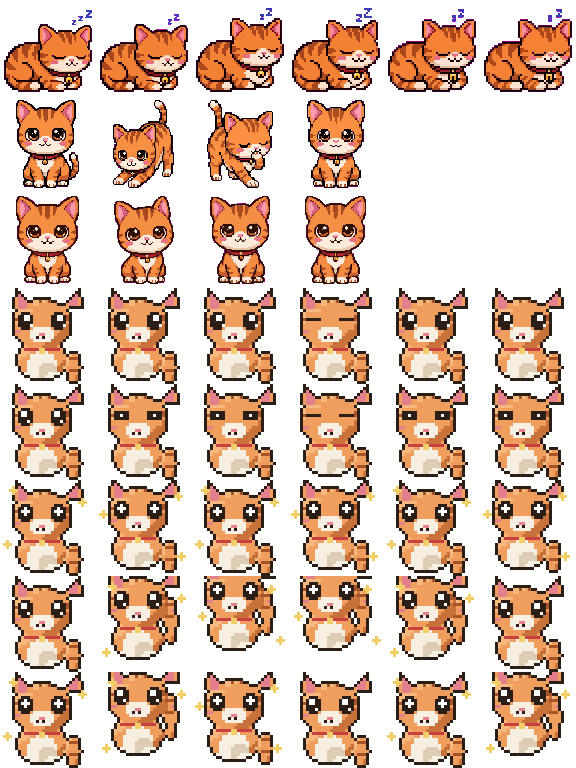
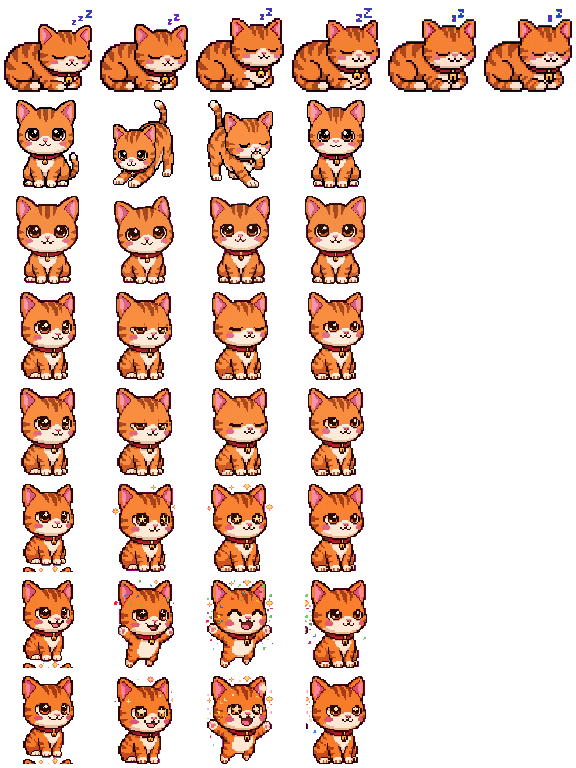
assets: 전체 8행 AI 에셋 완성 — evening/night 동일 소스(fps 차등)

diff --git a/src/renderer/cat-manifest.js b/src/renderer/cat-manifest.js
@@ -10,10 +10,10 @@ export const CAT_MANIFEST = {
     dawn: { row: 0, frames: 6, fps: 3 },
     morning: { row: 1, frames: 4, fps: 5 },
     day: { row: 2, frames: 4, fps: 7 },
-    evening: { row: 3, frames: 6, fps: 4 },
-    night: { row: 4, frames: 6, fps: 3 },
-    imminent: { row: 5, frames: 6, fps: 8 },
-    expired: { row: 6, frames: 6, fps: 10 },
-    hover: { row: 7, frames: 6, fps: 10 },
+    evening: { row: 3, frames: 4, fps: 4 },
+    night: { row: 4, frames: 4, fps: 3 },
+    imminent: { row: 5, frames: 4, fps: 8 },
+    expired: { row: 6, frames: 4, fps: 10 },
+    hover: { row: 7, frames: 4, fps: 10 },
   },
 };
